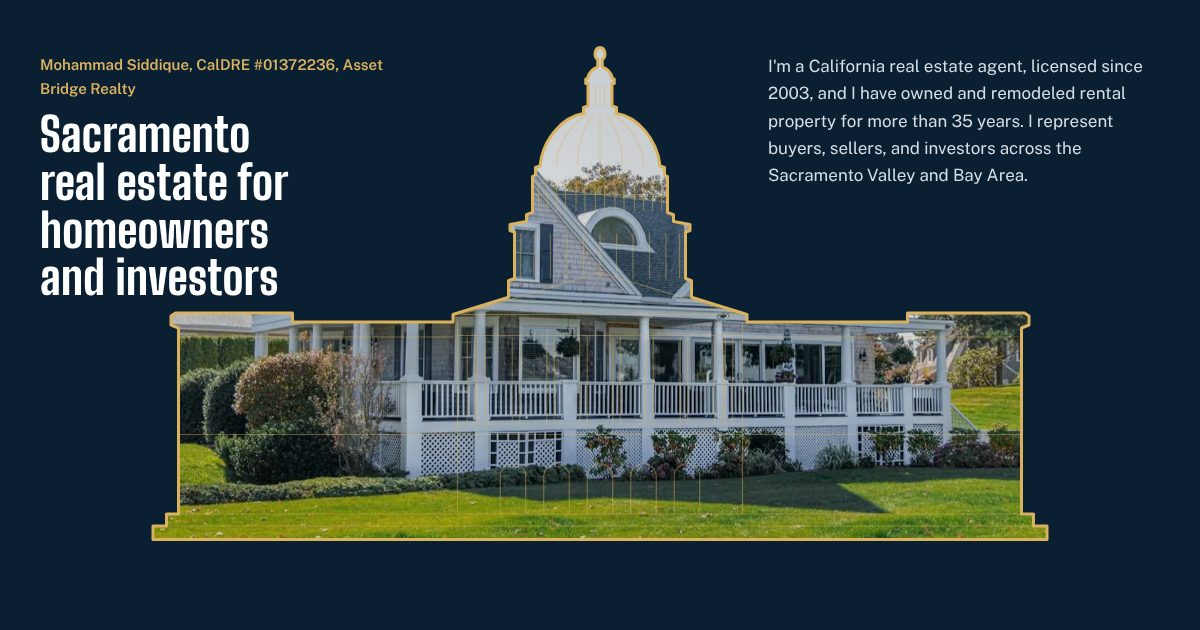
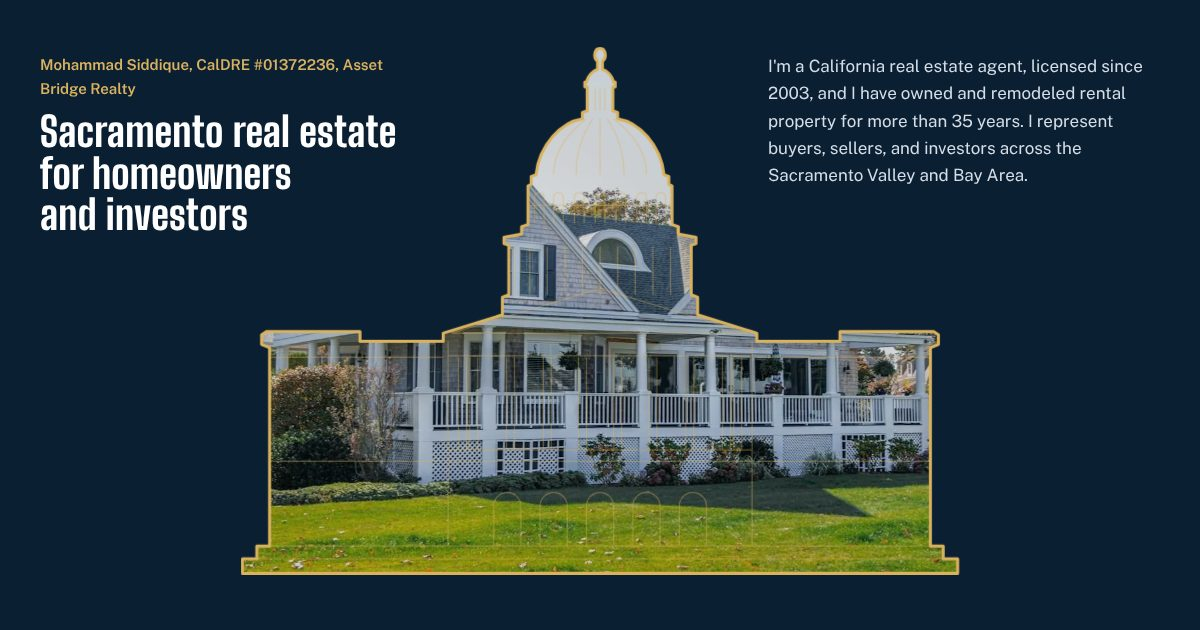
Narrow the Capitol outline by a quarter
Claude-Session: https://claude.ai/code/session_01UgJu3qX1ijNCWZST7kiY7E

Changed region(s): [[0.0308, 0.0905, 0.8942, 0.9349]]

diff --git a/index.html b/index.html
@@ -30,7 +30,7 @@
 <header class="site-header">
   <div class="container">
     <a href="index.html" class="brand" aria-label="Mohammad Siddique, home">
-      <span class="brand-mark"><svg viewBox="0 0 1200 690" aria-hidden="true"><path fill="currentColor" d="M600.0 18.0 C607.0 18.0 609.0 30.0 603.0 34.0 L603.0 44.0 C609.0 46.0 615.0 52.0 617.0 60.0 L619.0 60.0 L619.0 66.0 L616.0 66.0 L616.0 96.0 L622.0 98.0 L622.0 106.0 C648.0 110.0 676.0 138.0 680.0 176.0 L686.0 178.0 L686.0 188.0 L690.0 190.0 L690.0 238.0 L698.0 241.0 L698.0 250.0 L720.0 254.0 L720.0 262.0 L714.0 264.0 L714.0 326.0 L722.0 329.0 L722.0 338.0 L722.0 351.0 L796.0 374.0 L796.0 384.0 L1010.0 384.0 L1010.0 372.0 L1166.0 372.0 L1172.0 376.0 L1172.0 388.0 L1162.0 392.0 L1162.0 640.0 L1178.0 640.0 L1178.0 656.0 L1196.0 656.0 L1196.0 674.0 L4.0 674.0 L4.0 656.0 L22.0 656.0 L22.0 640.0 L38.0 640.0 L38.0 392.0 L28.0 388.0 L28.0 376.0 L34.0 372.0 L190.0 372.0 L190.0 384.0 L404.0 384.0 L404.0 374.0 L478.0 351.0 L478.0 338.0 L478.0 329.0 L486.0 326.0 L486.0 264.0 L480.0 262.0 L480.0 254.0 L502.0 250.0 L502.0 241.0 L510.0 238.0 L510.0 190.0 L514.0 188.0 L514.0 178.0 L520.0 176.0 C524.0 138.0 552.0 110.0 578.0 106.0 L578.0 98.0 L584.0 96.0 L584.0 66.0 L581.0 66.0 L581.0 60.0 L583.0 60.0 C585.0 52.0 591.0 46.0 597.0 44.0 L597.0 34.0 C591.0 30.0 593.0 18.0 600.0 18.0 Z"/></svg></span>
+      <span class="brand-mark"><svg viewBox="0 0 900 690" aria-hidden="true"><path fill="currentColor" d="M450.0 18.0 C457.0 18.0 459.0 30.0 453.0 34.0 L453.0 44.0 C459.0 46.0 465.0 52.0 467.0 60.0 L469.0 60.0 L469.0 66.0 L466.0 66.0 L466.0 96.0 L472.0 98.0 L472.0 106.0 C498.0 110.0 526.0 138.0 530.0 176.0 L536.0 178.0 L536.0 188.0 L540.0 190.0 L540.0 238.0 L548.0 241.0 L548.0 250.0 L570.0 254.0 L570.0 262.0 L564.0 264.0 L564.0 326.0 L572.0 329.0 L572.0 338.0 L572.0 351.0 L646.0 374.0 L646.0 384.0 L750.0 384.0 L750.0 372.0 L867.0 372.0 L873.0 376.0 L873.0 388.0 L863.0 392.0 L863.0 640.0 L879.0 640.0 L879.0 656.0 L897.0 656.0 L897.0 674.0 L3.0 674.0 L3.0 656.0 L21.0 656.0 L21.0 640.0 L37.0 640.0 L37.0 392.0 L27.0 388.0 L27.0 376.0 L33.0 372.0 L150.0 372.0 L150.0 384.0 L254.0 384.0 L254.0 374.0 L328.0 351.0 L328.0 338.0 L328.0 329.0 L336.0 326.0 L336.0 264.0 L330.0 262.0 L330.0 254.0 L352.0 250.0 L352.0 241.0 L360.0 238.0 L360.0 190.0 L364.0 188.0 L364.0 178.0 L370.0 176.0 C374.0 138.0 402.0 110.0 428.0 106.0 L428.0 98.0 L434.0 96.0 L434.0 66.0 L431.0 66.0 L431.0 60.0 L433.0 60.0 C435.0 52.0 441.0 46.0 447.0 44.0 L447.0 34.0 C441.0 30.0 443.0 18.0 450.0 18.0 Z"/></svg></span>
       <span class="brand-text">
         <span class="brand-name">Mohammad Siddique</span>
         <span class="brand-sub">CalDRE #01372236 &middot; Asset Bridge Realty</span>
@@ -61,24 +61,24 @@
         <h1>Sacramento real estate for homeowners and investors</h1>
       </div>
       <div class="capitol-stage">
-        <svg class="capitol" viewBox="0 0 1200 690" role="img" aria-labelledby="cap-title">
+        <svg class="capitol" viewBox="0 0 900 690" role="img" aria-labelledby="cap-title">
           <title id="cap-title">Outline of the California State Capitol, filled with photos of homes, commercial buildings, land, and closings</title>
-          <defs><clipPath id="cap-clip"><path d="M600.0 18.0 C607.0 18.0 609.0 30.0 603.0 34.0 L603.0 44.0 C609.0 46.0 615.0 52.0 617.0 60.0 L619.0 60.0 L619.0 66.0 L616.0 66.0 L616.0 96.0 L622.0 98.0 L622.0 106.0 C648.0 110.0 676.0 138.0 680.0 176.0 L686.0 178.0 L686.0 188.0 L690.0 190.0 L690.0 238.0 L698.0 241.0 L698.0 250.0 L720.0 254.0 L720.0 262.0 L714.0 264.0 L714.0 326.0 L722.0 329.0 L722.0 338.0 L722.0 351.0 L796.0 374.0 L796.0 384.0 L1010.0 384.0 L1010.0 372.0 L1166.0 372.0 L1172.0 376.0 L1172.0 388.0 L1162.0 392.0 L1162.0 640.0 L1178.0 640.0 L1178.0 656.0 L1196.0 656.0 L1196.0 674.0 L4.0 674.0 L4.0 656.0 L22.0 656.0 L22.0 640.0 L38.0 640.0 L38.0 392.0 L28.0 388.0 L28.0 376.0 L34.0 372.0 L190.0 372.0 L190.0 384.0 L404.0 384.0 L404.0 374.0 L478.0 351.0 L478.0 338.0 L478.0 329.0 L486.0 326.0 L486.0 264.0 L480.0 262.0 L480.0 254.0 L502.0 250.0 L502.0 241.0 L510.0 238.0 L510.0 190.0 L514.0 188.0 L514.0 178.0 L520.0 176.0 C524.0 138.0 552.0 110.0 578.0 106.0 L578.0 98.0 L584.0 96.0 L584.0 66.0 L581.0 66.0 L581.0 60.0 L583.0 60.0 C585.0 52.0 591.0 46.0 597.0 44.0 L597.0 34.0 C591.0 30.0 593.0 18.0 600.0 18.0 Z"/></clipPath></defs>
-          <path class="cap-fill" d="M600.0 18.0 C607.0 18.0 609.0 30.0 603.0 34.0 L603.0 44.0 C609.0 46.0 615.0 52.0 617.0 60.0 L619.0 60.0 L619.0 66.0 L616.0 66.0 L616.0 96.0 L622.0 98.0 L622.0 106.0 C648.0 110.0 676.0 138.0 680.0 176.0 L686.0 178.0 L686.0 188.0 L690.0 190.0 L690.0 238.0 L698.0 241.0 L698.0 250.0 L720.0 254.0 L720.0 262.0 L714.0 264.0 L714.0 326.0 L722.0 329.0 L722.0 338.0 L722.0 351.0 L796.0 374.0 L796.0 384.0 L1010.0 384.0 L1010.0 372.0 L1166.0 372.0 L1172.0 376.0 L1172.0 388.0 L1162.0 392.0 L1162.0 640.0 L1178.0 640.0 L1178.0 656.0 L1196.0 656.0 L1196.0 674.0 L4.0 674.0 L4.0 656.0 L22.0 656.0 L22.0 640.0 L38.0 640.0 L38.0 392.0 L28.0 388.0 L28.0 376.0 L34.0 372.0 L190.0 372.0 L190.0 384.0 L404.0 384.0 L404.0 374.0 L478.0 351.0 L478.0 338.0 L478.0 329.0 L486.0 326.0 L486.0 264.0 L480.0 262.0 L480.0 254.0 L502.0 250.0 L502.0 241.0 L510.0 238.0 L510.0 190.0 L514.0 188.0 L514.0 178.0 L520.0 176.0 C524.0 138.0 552.0 110.0 578.0 106.0 L578.0 98.0 L584.0 96.0 L584.0 66.0 L581.0 66.0 L581.0 60.0 L583.0 60.0 C585.0 52.0 591.0 46.0 597.0 44.0 L597.0 34.0 C591.0 30.0 593.0 18.0 600.0 18.0 Z"/>
+          <defs><clipPath id="cap-clip"><path d="M450.0 18.0 C457.0 18.0 459.0 30.0 453.0 34.0 L453.0 44.0 C459.0 46.0 465.0 52.0 467.0 60.0 L469.0 60.0 L469.0 66.0 L466.0 66.0 L466.0 96.0 L472.0 98.0 L472.0 106.0 C498.0 110.0 526.0 138.0 530.0 176.0 L536.0 178.0 L536.0 188.0 L540.0 190.0 L540.0 238.0 L548.0 241.0 L548.0 250.0 L570.0 254.0 L570.0 262.0 L564.0 264.0 L564.0 326.0 L572.0 329.0 L572.0 338.0 L572.0 351.0 L646.0 374.0 L646.0 384.0 L750.0 384.0 L750.0 372.0 L867.0 372.0 L873.0 376.0 L873.0 388.0 L863.0 392.0 L863.0 640.0 L879.0 640.0 L879.0 656.0 L897.0 656.0 L897.0 674.0 L3.0 674.0 L3.0 656.0 L21.0 656.0 L21.0 640.0 L37.0 640.0 L37.0 392.0 L27.0 388.0 L27.0 376.0 L33.0 372.0 L150.0 372.0 L150.0 384.0 L254.0 384.0 L254.0 374.0 L328.0 351.0 L328.0 338.0 L328.0 329.0 L336.0 326.0 L336.0 264.0 L330.0 262.0 L330.0 254.0 L352.0 250.0 L352.0 241.0 L360.0 238.0 L360.0 190.0 L364.0 188.0 L364.0 178.0 L370.0 176.0 C374.0 138.0 402.0 110.0 428.0 106.0 L428.0 98.0 L434.0 96.0 L434.0 66.0 L431.0 66.0 L431.0 60.0 L433.0 60.0 C435.0 52.0 441.0 46.0 447.0 44.0 L447.0 34.0 C441.0 30.0 443.0 18.0 450.0 18.0 Z"/></clipPath></defs>
+          <path class="cap-fill" d="M450.0 18.0 C457.0 18.0 459.0 30.0 453.0 34.0 L453.0 44.0 C459.0 46.0 465.0 52.0 467.0 60.0 L469.0 60.0 L469.0 66.0 L466.0 66.0 L466.0 96.0 L472.0 98.0 L472.0 106.0 C498.0 110.0 526.0 138.0 530.0 176.0 L536.0 178.0 L536.0 188.0 L540.0 190.0 L540.0 238.0 L548.0 241.0 L548.0 250.0 L570.0 254.0 L570.0 262.0 L564.0 264.0 L564.0 326.0 L572.0 329.0 L572.0 338.0 L572.0 351.0 L646.0 374.0 L646.0 384.0 L750.0 384.0 L750.0 372.0 L867.0 372.0 L873.0 376.0 L873.0 388.0 L863.0 392.0 L863.0 640.0 L879.0 640.0 L879.0 656.0 L897.0 656.0 L897.0 674.0 L3.0 674.0 L3.0 656.0 L21.0 656.0 L21.0 640.0 L37.0 640.0 L37.0 392.0 L27.0 388.0 L27.0 376.0 L33.0 372.0 L150.0 372.0 L150.0 384.0 L254.0 384.0 L254.0 374.0 L328.0 351.0 L328.0 338.0 L328.0 329.0 L336.0 326.0 L336.0 264.0 L330.0 262.0 L330.0 254.0 L352.0 250.0 L352.0 241.0 L360.0 238.0 L360.0 190.0 L364.0 188.0 L364.0 178.0 L370.0 176.0 C374.0 138.0 402.0 110.0 428.0 106.0 L428.0 98.0 L434.0 96.0 L434.0 66.0 L431.0 66.0 L431.0 60.0 L433.0 60.0 C435.0 52.0 441.0 46.0 447.0 44.0 L447.0 34.0 C441.0 30.0 443.0 18.0 450.0 18.0 Z"/>
           <g clip-path="url(#cap-clip)"><g class="cap-photos">
-          <image href="assets/photos/home-with-porch.webp" class="is-on" x="-40" y="-30" width="1280" height="750" preserveAspectRatio="xMidYMid slice"/>
-          <image data-href="assets/photos/house-keys-handover.webp" x="-40" y="-30" width="1280" height="750" preserveAspectRatio="xMidYMid slice"/>
-          <image data-href="assets/photos/commercial-towers.webp" x="-40" y="-30" width="1280" height="750" preserveAspectRatio="xMidYMid slice"/>
-          <image data-href="assets/photos/handshake-new-home.webp" x="-40" y="-30" width="1280" height="750" preserveAspectRatio="xMidYMid slice"/>
-          <image data-href="assets/photos/apartment-building.webp" x="-40" y="-30" width="1280" height="750" preserveAspectRatio="xMidYMid slice"/>
-          <image data-href="assets/photos/land-at-sunrise.webp" x="-40" y="-30" width="1280" height="750" preserveAspectRatio="xMidYMid slice"/>
-          <image data-href="assets/photos/signing-purchase-contract.webp" x="-40" y="-30" width="1280" height="750" preserveAspectRatio="xMidYMid slice"/>
-          <image data-href="assets/photos/new-owners-moving-in.webp" x="-40" y="-30" width="1280" height="750" preserveAspectRatio="xMidYMid slice"/>
-          <image data-href="assets/photos/construction-site.webp" x="-40" y="-30" width="1280" height="750" preserveAspectRatio="xMidYMid slice"/>
-          <image data-href="assets/photos/restaurant-space.webp" x="-40" y="-30" width="1280" height="750" preserveAspectRatio="xMidYMid slice"/>
-          <rect class="cap-tint" x="-40" y="-30" width="1280" height="750"/></g></g>
-          <path class="cap-lines" d="M600.0 318.0L786.0 374.0 M600.0 318.0L414.0 374.0 M414.0 374.0L786.0 374.0 M410.0 402.0L790.0 402.0 M617.0 404.0L617.0 520.0 M583.0 404.0L583.0 520.0 M627.0 404.0L627.0 520.0 M573.0 404.0L573.0 520.0 M661.0 404.0L661.0 520.0 M539.0 404.0L539.0 520.0 M671.0 404.0L671.0 520.0 M529.0 404.0L529.0 520.0 M707.0 404.0L707.0 520.0 M493.0 404.0L493.0 520.0 M717.0 404.0L717.0 520.0 M483.0 404.0L483.0 520.0 M753.0 404.0L753.0 520.0 M447.0 404.0L447.0 520.0 M763.0 404.0L763.0 520.0 M437.0 404.0L437.0 520.0 M767.0 404.0L767.0 520.0 M433.0 404.0L433.0 520.0 M777.0 404.0L777.0 520.0 M423.0 404.0L423.0 520.0 M410.0 520.0L790.0 520.0 M410.0 534.0L790.0 534.0 M790.0 384.0L790.0 640.0 M410.0 384.0L410.0 640.0 M583.0 640V590A17 17 0 0 1 617.0 590V640 M641.0 640V590A17 17 0 0 1 675.0 590V640 M525.0 640V590A17 17 0 0 1 559.0 590V640 M699.0 640V590A17 17 0 0 1 733.0 590V640 M467.0 640V590A17 17 0 0 1 501.0 590V640 M796.0 404.0L1162.0 404.0 M404.0 404.0L38.0 404.0 M796.0 534.0L1162.0 534.0 M404.0 534.0L38.0 534.0 M600.0 266.0L600.0 326.0 M622.0 266.0L622.0 326.0 M578.0 266.0L578.0 326.0 M644.0 266.0L644.0 326.0 M556.0 266.0L556.0 326.0 M666.0 266.0L666.0 326.0 M534.0 266.0L534.0 326.0 M688.0 266.0L688.0 326.0 M512.0 266.0L512.0 326.0 M706.0 266.0L706.0 326.0 M494.0 266.0L494.0 326.0 M510.0 214.0L690.0 214.0 M594.0 236V204A6 6 0 0 1 606.0 204V236 M620.0 236V204A6 6 0 0 1 632.0 204V236 M568.0 236V204A6 6 0 0 1 580.0 204V236 M646.0 236V204A6 6 0 0 1 658.0 204V236 M542.0 236V204A6 6 0 0 1 554.0 204V236 M670.0 236V204A6 6 0 0 1 682.0 204V236 M518.0 236V204A6 6 0 0 1 530.0 204V236 M600 106V176 M609.0 106C622.5 126 630.0 150 630.0 176 M591.0 106C577.5 126 570.0 150 570.0 176 M617.0 106C643.5 126 658.0 150 658.0 176 M583.0 106C556.5 126 542.0 150 542.0 176 M606.0 68.0L606.0 96.0 M594.0 68.0L594.0 96.0 M600.0 68.0L600.0 96.0 M22.0 656.0L1178.0 656.0 M38.0 640.0L1162.0 640.0"/>
-          <path class="cap-outline" pathLength="1" d="M600.0 18.0 C607.0 18.0 609.0 30.0 603.0 34.0 L603.0 44.0 C609.0 46.0 615.0 52.0 617.0 60.0 L619.0 60.0 L619.0 66.0 L616.0 66.0 L616.0 96.0 L622.0 98.0 L622.0 106.0 C648.0 110.0 676.0 138.0 680.0 176.0 L686.0 178.0 L686.0 188.0 L690.0 190.0 L690.0 238.0 L698.0 241.0 L698.0 250.0 L720.0 254.0 L720.0 262.0 L714.0 264.0 L714.0 326.0 L722.0 329.0 L722.0 338.0 L722.0 351.0 L796.0 374.0 L796.0 384.0 L1010.0 384.0 L1010.0 372.0 L1166.0 372.0 L1172.0 376.0 L1172.0 388.0 L1162.0 392.0 L1162.0 640.0 L1178.0 640.0 L1178.0 656.0 L1196.0 656.0 L1196.0 674.0 L4.0 674.0 L4.0 656.0 L22.0 656.0 L22.0 640.0 L38.0 640.0 L38.0 392.0 L28.0 388.0 L28.0 376.0 L34.0 372.0 L190.0 372.0 L190.0 384.0 L404.0 384.0 L404.0 374.0 L478.0 351.0 L478.0 338.0 L478.0 329.0 L486.0 326.0 L486.0 264.0 L480.0 262.0 L480.0 254.0 L502.0 250.0 L502.0 241.0 L510.0 238.0 L510.0 190.0 L514.0 188.0 L514.0 178.0 L520.0 176.0 C524.0 138.0 552.0 110.0 578.0 106.0 L578.0 98.0 L584.0 96.0 L584.0 66.0 L581.0 66.0 L581.0 60.0 L583.0 60.0 C585.0 52.0 591.0 46.0 597.0 44.0 L597.0 34.0 C591.0 30.0 593.0 18.0 600.0 18.0 Z"/>
+          <image href="assets/photos/home-with-porch.webp" class="is-on" x="-40" y="-30" width="980" height="750" preserveAspectRatio="xMidYMid slice"/>
+          <image data-href="assets/photos/house-keys-handover.webp" x="-40" y="-30" width="980" height="750" preserveAspectRatio="xMidYMid slice"/>
+          <image data-href="assets/photos/commercial-towers.webp" x="-40" y="-30" width="980" height="750" preserveAspectRatio="xMidYMid slice"/>
+          <image data-href="assets/photos/handshake-new-home.webp" x="-40" y="-30" width="980" height="750" preserveAspectRatio="xMidYMid slice"/>
+          <image data-href="assets/photos/apartment-building.webp" x="-40" y="-30" width="980" height="750" preserveAspectRatio="xMidYMid slice"/>
+          <image data-href="assets/photos/land-at-sunrise.webp" x="-40" y="-30" width="980" height="750" preserveAspectRatio="xMidYMid slice"/>
+          <image data-href="assets/photos/signing-purchase-contract.webp" x="-40" y="-30" width="980" height="750" preserveAspectRatio="xMidYMid slice"/>
+          <image data-href="assets/photos/new-owners-moving-in.webp" x="-40" y="-30" width="980" height="750" preserveAspectRatio="xMidYMid slice"/>
+          <image data-href="assets/photos/construction-site.webp" x="-40" y="-30" width="980" height="750" preserveAspectRatio="xMidYMid slice"/>
+          <image data-href="assets/photos/restaurant-space.webp" x="-40" y="-30" width="980" height="750" preserveAspectRatio="xMidYMid slice"/>
+          <rect class="cap-tint" x="-40" y="-30" width="980" height="750"/></g></g>
+          <path class="cap-lines" d="M450.0 318.0L636.0 374.0 M450.0 318.0L264.0 374.0 M264.0 374.0L636.0 374.0 M260.0 402.0L640.0 402.0 M467.0 404.0L467.0 520.0 M433.0 404.0L433.0 520.0 M477.0 404.0L477.0 520.0 M423.0 404.0L423.0 520.0 M511.0 404.0L511.0 520.0 M389.0 404.0L389.0 520.0 M521.0 404.0L521.0 520.0 M379.0 404.0L379.0 520.0 M557.0 404.0L557.0 520.0 M343.0 404.0L343.0 520.0 M567.0 404.0L567.0 520.0 M333.0 404.0L333.0 520.0 M603.0 404.0L603.0 520.0 M297.0 404.0L297.0 520.0 M613.0 404.0L613.0 520.0 M287.0 404.0L287.0 520.0 M617.0 404.0L617.0 520.0 M283.0 404.0L283.0 520.0 M627.0 404.0L627.0 520.0 M273.0 404.0L273.0 520.0 M260.0 520.0L640.0 520.0 M260.0 534.0L640.0 534.0 M640.0 384.0L640.0 640.0 M260.0 384.0L260.0 640.0 M433.0 640V590A17 17 0 0 1 467.0 590V640 M491.0 640V590A17 17 0 0 1 525.0 590V640 M375.0 640V590A17 17 0 0 1 409.0 590V640 M549.0 640V590A17 17 0 0 1 583.0 590V640 M317.0 640V590A17 17 0 0 1 351.0 590V640 M646.0 404.0L863.0 404.0 M254.0 404.0L37.0 404.0 M646.0 534.0L863.0 534.0 M254.0 534.0L37.0 534.0 M450.0 266.0L450.0 326.0 M472.0 266.0L472.0 326.0 M428.0 266.0L428.0 326.0 M494.0 266.0L494.0 326.0 M406.0 266.0L406.0 326.0 M516.0 266.0L516.0 326.0 M384.0 266.0L384.0 326.0 M538.0 266.0L538.0 326.0 M362.0 266.0L362.0 326.0 M556.0 266.0L556.0 326.0 M344.0 266.0L344.0 326.0 M360.0 214.0L540.0 214.0 M444.0 236V204A6 6 0 0 1 456.0 204V236 M470.0 236V204A6 6 0 0 1 482.0 204V236 M418.0 236V204A6 6 0 0 1 430.0 204V236 M496.0 236V204A6 6 0 0 1 508.0 204V236 M392.0 236V204A6 6 0 0 1 404.0 204V236 M520.0 236V204A6 6 0 0 1 532.0 204V236 M368.0 236V204A6 6 0 0 1 380.0 204V236 M450 106V176 M459.0 106C472.5 126 480.0 150 480.0 176 M441.0 106C427.5 126 420.0 150 420.0 176 M467.0 106C493.5 126 508.0 150 508.0 176 M433.0 106C406.5 126 392.0 150 392.0 176 M456.0 68.0L456.0 96.0 M444.0 68.0L444.0 96.0 M450.0 68.0L450.0 96.0 M21.0 656.0L879.0 656.0 M37.0 640.0L863.0 640.0"/>
+          <path class="cap-outline" pathLength="1" d="M450.0 18.0 C457.0 18.0 459.0 30.0 453.0 34.0 L453.0 44.0 C459.0 46.0 465.0 52.0 467.0 60.0 L469.0 60.0 L469.0 66.0 L466.0 66.0 L466.0 96.0 L472.0 98.0 L472.0 106.0 C498.0 110.0 526.0 138.0 530.0 176.0 L536.0 178.0 L536.0 188.0 L540.0 190.0 L540.0 238.0 L548.0 241.0 L548.0 250.0 L570.0 254.0 L570.0 262.0 L564.0 264.0 L564.0 326.0 L572.0 329.0 L572.0 338.0 L572.0 351.0 L646.0 374.0 L646.0 384.0 L750.0 384.0 L750.0 372.0 L867.0 372.0 L873.0 376.0 L873.0 388.0 L863.0 392.0 L863.0 640.0 L879.0 640.0 L879.0 656.0 L897.0 656.0 L897.0 674.0 L3.0 674.0 L3.0 656.0 L21.0 656.0 L21.0 640.0 L37.0 640.0 L37.0 392.0 L27.0 388.0 L27.0 376.0 L33.0 372.0 L150.0 372.0 L150.0 384.0 L254.0 384.0 L254.0 374.0 L328.0 351.0 L328.0 338.0 L328.0 329.0 L336.0 326.0 L336.0 264.0 L330.0 262.0 L330.0 254.0 L352.0 250.0 L352.0 241.0 L360.0 238.0 L360.0 190.0 L364.0 188.0 L364.0 178.0 L370.0 176.0 C374.0 138.0 402.0 110.0 428.0 106.0 L428.0 98.0 L434.0 96.0 L434.0 66.0 L431.0 66.0 L431.0 60.0 L433.0 60.0 C435.0 52.0 441.0 46.0 447.0 44.0 L447.0 34.0 C441.0 30.0 443.0 18.0 450.0 18.0 Z"/>
         </svg>
         <div class="hero-caption">
           <span>In the Capitol now: <strong id="cap-label" aria-live="polite">Homes</strong></span>

diff --git a/404.html b/404.html
@@ -28,7 +28,7 @@
 <header class="site-header">
   <div class="container">
     <a href="/index.html" class="brand" aria-label="Mohammad Siddique, home">
-      <span class="brand-mark"><svg viewBox="0 0 1200 690" aria-hidden="true"><path fill="currentColor" d="M600.0 18.0 C607.0 18.0 609.0 30.0 603.0 34.0 L603.0 44.0 C609.0 46.0 615.0 52.0 617.0 60.0 L619.0 60.0 L619.0 66.0 L616.0 66.0 L616.0 96.0 L622.0 98.0 L622.0 106.0 C648.0 110.0 676.0 138.0 680.0 176.0 L686.0 178.0 L686.0 188.0 L690.0 190.0 L690.0 238.0 L698.0 241.0 L698.0 250.0 L720.0 254.0 L720.0 262.0 L714.0 264.0 L714.0 326.0 L722.0 329.0 L722.0 338.0 L722.0 351.0 L796.0 374.0 L796.0 384.0 L1010.0 384.0 L1010.0 372.0 L1166.0 372.0 L1172.0 376.0 L1172.0 388.0 L1162.0 392.0 L1162.0 640.0 L1178.0 640.0 L1178.0 656.0 L1196.0 656.0 L1196.0 674.0 L4.0 674.0 L4.0 656.0 L22.0 656.0 L22.0 640.0 L38.0 640.0 L38.0 392.0 L28.0 388.0 L28.0 376.0 L34.0 372.0 L190.0 372.0 L190.0 384.0 L404.0 384.0 L404.0 374.0 L478.0 351.0 L478.0 338.0 L478.0 329.0 L486.0 326.0 L486.0 264.0 L480.0 262.0 L480.0 254.0 L502.0 250.0 L502.0 241.0 L510.0 238.0 L510.0 190.0 L514.0 188.0 L514.0 178.0 L520.0 176.0 C524.0 138.0 552.0 110.0 578.0 106.0 L578.0 98.0 L584.0 96.0 L584.0 66.0 L581.0 66.0 L581.0 60.0 L583.0 60.0 C585.0 52.0 591.0 46.0 597.0 44.0 L597.0 34.0 C591.0 30.0 593.0 18.0 600.0 18.0 Z"/></svg></span>
+      <span class="brand-mark"><svg viewBox="0 0 900 690" aria-hidden="true"><path fill="currentColor" d="M450.0 18.0 C457.0 18.0 459.0 30.0 453.0 34.0 L453.0 44.0 C459.0 46.0 465.0 52.0 467.0 60.0 L469.0 60.0 L469.0 66.0 L466.0 66.0 L466.0 96.0 L472.0 98.0 L472.0 106.0 C498.0 110.0 526.0 138.0 530.0 176.0 L536.0 178.0 L536.0 188.0 L540.0 190.0 L540.0 238.0 L548.0 241.0 L548.0 250.0 L570.0 254.0 L570.0 262.0 L564.0 264.0 L564.0 326.0 L572.0 329.0 L572.0 338.0 L572.0 351.0 L646.0 374.0 L646.0 384.0 L750.0 384.0 L750.0 372.0 L867.0 372.0 L873.0 376.0 L873.0 388.0 L863.0 392.0 L863.0 640.0 L879.0 640.0 L879.0 656.0 L897.0 656.0 L897.0 674.0 L3.0 674.0 L3.0 656.0 L21.0 656.0 L21.0 640.0 L37.0 640.0 L37.0 392.0 L27.0 388.0 L27.0 376.0 L33.0 372.0 L150.0 372.0 L150.0 384.0 L254.0 384.0 L254.0 374.0 L328.0 351.0 L328.0 338.0 L328.0 329.0 L336.0 326.0 L336.0 264.0 L330.0 262.0 L330.0 254.0 L352.0 250.0 L352.0 241.0 L360.0 238.0 L360.0 190.0 L364.0 188.0 L364.0 178.0 L370.0 176.0 C374.0 138.0 402.0 110.0 428.0 106.0 L428.0 98.0 L434.0 96.0 L434.0 66.0 L431.0 66.0 L431.0 60.0 L433.0 60.0 C435.0 52.0 441.0 46.0 447.0 44.0 L447.0 34.0 C441.0 30.0 443.0 18.0 450.0 18.0 Z"/></svg></span>
       <span class="brand-text">
         <span class="brand-name">Mohammad Siddique</span>
         <span class="brand-sub">CalDRE #01372236 &middot; Asset Bridge Realty</span>

diff --git a/about.html b/about.html
@@ -28,7 +28,7 @@
 <header class="site-header">
   <div class="container">
     <a href="index.html" class="brand" aria-label="Mohammad Siddique, home">
-      <span class="brand-mark"><svg viewBox="0 0 1200 690" aria-hidden="true"><path fill="currentColor" d="M600.0 18.0 C607.0 18.0 609.0 30.0 603.0 34.0 L603.0 44.0 C609.0 46.0 615.0 52.0 617.0 60.0 L619.0 60.0 L619.0 66.0 L616.0 66.0 L616.0 96.0 L622.0 98.0 L622.0 106.0 C648.0 110.0 676.0 138.0 680.0 176.0 L686.0 178.0 L686.0 188.0 L690.0 190.0 L690.0 238.0 L698.0 241.0 L698.0 250.0 L720.0 254.0 L720.0 262.0 L714.0 264.0 L714.0 326.0 L722.0 329.0 L722.0 338.0 L722.0 351.0 L796.0 374.0 L796.0 384.0 L1010.0 384.0 L1010.0 372.0 L1166.0 372.0 L1172.0 376.0 L1172.0 388.0 L1162.0 392.0 L1162.0 640.0 L1178.0 640.0 L1178.0 656.0 L1196.0 656.0 L1196.0 674.0 L4.0 674.0 L4.0 656.0 L22.0 656.0 L22.0 640.0 L38.0 640.0 L38.0 392.0 L28.0 388.0 L28.0 376.0 L34.0 372.0 L190.0 372.0 L190.0 384.0 L404.0 384.0 L404.0 374.0 L478.0 351.0 L478.0 338.0 L478.0 329.0 L486.0 326.0 L486.0 264.0 L480.0 262.0 L480.0 254.0 L502.0 250.0 L502.0 241.0 L510.0 238.0 L510.0 190.0 L514.0 188.0 L514.0 178.0 L520.0 176.0 C524.0 138.0 552.0 110.0 578.0 106.0 L578.0 98.0 L584.0 96.0 L584.0 66.0 L581.0 66.0 L581.0 60.0 L583.0 60.0 C585.0 52.0 591.0 46.0 597.0 44.0 L597.0 34.0 C591.0 30.0 593.0 18.0 600.0 18.0 Z"/></svg></span>
+      <span class="brand-mark"><svg viewBox="0 0 900 690" aria-hidden="true"><path fill="currentColor" d="M450.0 18.0 C457.0 18.0 459.0 30.0 453.0 34.0 L453.0 44.0 C459.0 46.0 465.0 52.0 467.0 60.0 L469.0 60.0 L469.0 66.0 L466.0 66.0 L466.0 96.0 L472.0 98.0 L472.0 106.0 C498.0 110.0 526.0 138.0 530.0 176.0 L536.0 178.0 L536.0 188.0 L540.0 190.0 L540.0 238.0 L548.0 241.0 L548.0 250.0 L570.0 254.0 L570.0 262.0 L564.0 264.0 L564.0 326.0 L572.0 329.0 L572.0 338.0 L572.0 351.0 L646.0 374.0 L646.0 384.0 L750.0 384.0 L750.0 372.0 L867.0 372.0 L873.0 376.0 L873.0 388.0 L863.0 392.0 L863.0 640.0 L879.0 640.0 L879.0 656.0 L897.0 656.0 L897.0 674.0 L3.0 674.0 L3.0 656.0 L21.0 656.0 L21.0 640.0 L37.0 640.0 L37.0 392.0 L27.0 388.0 L27.0 376.0 L33.0 372.0 L150.0 372.0 L150.0 384.0 L254.0 384.0 L254.0 374.0 L328.0 351.0 L328.0 338.0 L328.0 329.0 L336.0 326.0 L336.0 264.0 L330.0 262.0 L330.0 254.0 L352.0 250.0 L352.0 241.0 L360.0 238.0 L360.0 190.0 L364.0 188.0 L364.0 178.0 L370.0 176.0 C374.0 138.0 402.0 110.0 428.0 106.0 L428.0 98.0 L434.0 96.0 L434.0 66.0 L431.0 66.0 L431.0 60.0 L433.0 60.0 C435.0 52.0 441.0 46.0 447.0 44.0 L447.0 34.0 C441.0 30.0 443.0 18.0 450.0 18.0 Z"/></svg></span>
       <span class="brand-text">
         <span class="brand-name">Mohammad Siddique</span>
         <span class="brand-sub">CalDRE #01372236 &middot; Asset Bridge Realty</span>

diff --git a/business-leases.html b/business-leases.html
@@ -28,7 +28,7 @@
 <header class="site-header">
   <div class="container">
     <a href="index.html" class="brand" aria-label="Mohammad Siddique, home">
-      <span class="brand-mark"><svg viewBox="0 0 1200 690" aria-hidden="true"><path fill="currentColor" d="M600.0 18.0 C607.0 18.0 609.0 30.0 603.0 34.0 L603.0 44.0 C609.0 46.0 615.0 52.0 617.0 60.0 L619.0 60.0 L619.0 66.0 L616.0 66.0 L616.0 96.0 L622.0 98.0 L622.0 106.0 C648.0 110.0 676.0 138.0 680.0 176.0 L686.0 178.0 L686.0 188.0 L690.0 190.0 L690.0 238.0 L698.0 241.0 L698.0 250.0 L720.0 254.0 L720.0 262.0 L714.0 264.0 L714.0 326.0 L722.0 329.0 L722.0 338.0 L722.0 351.0 L796.0 374.0 L796.0 384.0 L1010.0 384.0 L1010.0 372.0 L1166.0 372.0 L1172.0 376.0 L1172.0 388.0 L1162.0 392.0 L1162.0 640.0 L1178.0 640.0 L1178.0 656.0 L1196.0 656.0 L1196.0 674.0 L4.0 674.0 L4.0 656.0 L22.0 656.0 L22.0 640.0 L38.0 640.0 L38.0 392.0 L28.0 388.0 L28.0 376.0 L34.0 372.0 L190.0 372.0 L190.0 384.0 L404.0 384.0 L404.0 374.0 L478.0 351.0 L478.0 338.0 L478.0 329.0 L486.0 326.0 L486.0 264.0 L480.0 262.0 L480.0 254.0 L502.0 250.0 L502.0 241.0 L510.0 238.0 L510.0 190.0 L514.0 188.0 L514.0 178.0 L520.0 176.0 C524.0 138.0 552.0 110.0 578.0 106.0 L578.0 98.0 L584.0 96.0 L584.0 66.0 L581.0 66.0 L581.0 60.0 L583.0 60.0 C585.0 52.0 591.0 46.0 597.0 44.0 L597.0 34.0 C591.0 30.0 593.0 18.0 600.0 18.0 Z"/></svg></span>
+      <span class="brand-mark"><svg viewBox="0 0 900 690" aria-hidden="true"><path fill="currentColor" d="M450.0 18.0 C457.0 18.0 459.0 30.0 453.0 34.0 L453.0 44.0 C459.0 46.0 465.0 52.0 467.0 60.0 L469.0 60.0 L469.0 66.0 L466.0 66.0 L466.0 96.0 L472.0 98.0 L472.0 106.0 C498.0 110.0 526.0 138.0 530.0 176.0 L536.0 178.0 L536.0 188.0 L540.0 190.0 L540.0 238.0 L548.0 241.0 L548.0 250.0 L570.0 254.0 L570.0 262.0 L564.0 264.0 L564.0 326.0 L572.0 329.0 L572.0 338.0 L572.0 351.0 L646.0 374.0 L646.0 384.0 L750.0 384.0 L750.0 372.0 L867.0 372.0 L873.0 376.0 L873.0 388.0 L863.0 392.0 L863.0 640.0 L879.0 640.0 L879.0 656.0 L897.0 656.0 L897.0 674.0 L3.0 674.0 L3.0 656.0 L21.0 656.0 L21.0 640.0 L37.0 640.0 L37.0 392.0 L27.0 388.0 L27.0 376.0 L33.0 372.0 L150.0 372.0 L150.0 384.0 L254.0 384.0 L254.0 374.0 L328.0 351.0 L328.0 338.0 L328.0 329.0 L336.0 326.0 L336.0 264.0 L330.0 262.0 L330.0 254.0 L352.0 250.0 L352.0 241.0 L360.0 238.0 L360.0 190.0 L364.0 188.0 L364.0 178.0 L370.0 176.0 C374.0 138.0 402.0 110.0 428.0 106.0 L428.0 98.0 L434.0 96.0 L434.0 66.0 L431.0 66.0 L431.0 60.0 L433.0 60.0 C435.0 52.0 441.0 46.0 447.0 44.0 L447.0 34.0 C441.0 30.0 443.0 18.0 450.0 18.0 Z"/></svg></span>
       <span class="brand-text">
         <span class="brand-name">Mohammad Siddique</span>
         <span class="brand-sub">CalDRE #01372236 &middot; Asset Bridge Realty</span>

diff --git a/commercial-construction.html b/commercial-construction.html
@@ -28,7 +28,7 @@
 <header class="site-header">
   <div class="container">
     <a href="index.html" class="brand" aria-label="Mohammad Siddique, home">
-      <span class="brand-mark"><svg viewBox="0 0 1200 690" aria-hidden="true"><path fill="currentColor" d="M600.0 18.0 C607.0 18.0 609.0 30.0 603.0 34.0 L603.0 44.0 C609.0 46.0 615.0 52.0 617.0 60.0 L619.0 60.0 L619.0 66.0 L616.0 66.0 L616.0 96.0 L622.0 98.0 L622.0 106.0 C648.0 110.0 676.0 138.0 680.0 176.0 L686.0 178.0 L686.0 188.0 L690.0 190.0 L690.0 238.0 L698.0 241.0 L698.0 250.0 L720.0 254.0 L720.0 262.0 L714.0 264.0 L714.0 326.0 L722.0 329.0 L722.0 338.0 L722.0 351.0 L796.0 374.0 L796.0 384.0 L1010.0 384.0 L1010.0 372.0 L1166.0 372.0 L1172.0 376.0 L1172.0 388.0 L1162.0 392.0 L1162.0 640.0 L1178.0 640.0 L1178.0 656.0 L1196.0 656.0 L1196.0 674.0 L4.0 674.0 L4.0 656.0 L22.0 656.0 L22.0 640.0 L38.0 640.0 L38.0 392.0 L28.0 388.0 L28.0 376.0 L34.0 372.0 L190.0 372.0 L190.0 384.0 L404.0 384.0 L404.0 374.0 L478.0 351.0 L478.0 338.0 L478.0 329.0 L486.0 326.0 L486.0 264.0 L480.0 262.0 L480.0 254.0 L502.0 250.0 L502.0 241.0 L510.0 238.0 L510.0 190.0 L514.0 188.0 L514.0 178.0 L520.0 176.0 C524.0 138.0 552.0 110.0 578.0 106.0 L578.0 98.0 L584.0 96.0 L584.0 66.0 L581.0 66.0 L581.0 60.0 L583.0 60.0 C585.0 52.0 591.0 46.0 597.0 44.0 L597.0 34.0 C591.0 30.0 593.0 18.0 600.0 18.0 Z"/></svg></span>
+      <span class="brand-mark"><svg viewBox="0 0 900 690" aria-hidden="true"><path fill="currentColor" d="M450.0 18.0 C457.0 18.0 459.0 30.0 453.0 34.0 L453.0 44.0 C459.0 46.0 465.0 52.0 467.0 60.0 L469.0 60.0 L469.0 66.0 L466.0 66.0 L466.0 96.0 L472.0 98.0 L472.0 106.0 C498.0 110.0 526.0 138.0 530.0 176.0 L536.0 178.0 L536.0 188.0 L540.0 190.0 L540.0 238.0 L548.0 241.0 L548.0 250.0 L570.0 254.0 L570.0 262.0 L564.0 264.0 L564.0 326.0 L572.0 329.0 L572.0 338.0 L572.0 351.0 L646.0 374.0 L646.0 384.0 L750.0 384.0 L750.0 372.0 L867.0 372.0 L873.0 376.0 L873.0 388.0 L863.0 392.0 L863.0 640.0 L879.0 640.0 L879.0 656.0 L897.0 656.0 L897.0 674.0 L3.0 674.0 L3.0 656.0 L21.0 656.0 L21.0 640.0 L37.0 640.0 L37.0 392.0 L27.0 388.0 L27.0 376.0 L33.0 372.0 L150.0 372.0 L150.0 384.0 L254.0 384.0 L254.0 374.0 L328.0 351.0 L328.0 338.0 L328.0 329.0 L336.0 326.0 L336.0 264.0 L330.0 262.0 L330.0 254.0 L352.0 250.0 L352.0 241.0 L360.0 238.0 L360.0 190.0 L364.0 188.0 L364.0 178.0 L370.0 176.0 C374.0 138.0 402.0 110.0 428.0 106.0 L428.0 98.0 L434.0 96.0 L434.0 66.0 L431.0 66.0 L431.0 60.0 L433.0 60.0 C435.0 52.0 441.0 46.0 447.0 44.0 L447.0 34.0 C441.0 30.0 443.0 18.0 450.0 18.0 Z"/></svg></span>
       <span class="brand-text">
         <span class="brand-name">Mohammad Siddique</span>
         <span class="brand-sub">CalDRE #01372236 &middot; Asset Bridge Realty</span>

diff --git a/commercial.html b/commercial.html
@@ -28,7 +28,7 @@
 <header class="site-header">
   <div class="container">
     <a href="index.html" class="brand" aria-label="Mohammad Siddique, home">
-      <span class="brand-mark"><svg viewBox="0 0 1200 690" aria-hidden="true"><path fill="currentColor" d="M600.0 18.0 C607.0 18.0 609.0 30.0 603.0 34.0 L603.0 44.0 C609.0 46.0 615.0 52.0 617.0 60.0 L619.0 60.0 L619.0 66.0 L616.0 66.0 L616.0 96.0 L622.0 98.0 L622.0 106.0 C648.0 110.0 676.0 138.0 680.0 176.0 L686.0 178.0 L686.0 188.0 L690.0 190.0 L690.0 238.0 L698.0 241.0 L698.0 250.0 L720.0 254.0 L720.0 262.0 L714.0 264.0 L714.0 326.0 L722.0 329.0 L722.0 338.0 L722.0 351.0 L796.0 374.0 L796.0 384.0 L1010.0 384.0 L1010.0 372.0 L1166.0 372.0 L1172.0 376.0 L1172.0 388.0 L1162.0 392.0 L1162.0 640.0 L1178.0 640.0 L1178.0 656.0 L1196.0 656.0 L1196.0 674.0 L4.0 674.0 L4.0 656.0 L22.0 656.0 L22.0 640.0 L38.0 640.0 L38.0 392.0 L28.0 388.0 L28.0 376.0 L34.0 372.0 L190.0 372.0 L190.0 384.0 L404.0 384.0 L404.0 374.0 L478.0 351.0 L478.0 338.0 L478.0 329.0 L486.0 326.0 L486.0 264.0 L480.0 262.0 L480.0 254.0 L502.0 250.0 L502.0 241.0 L510.0 238.0 L510.0 190.0 L514.0 188.0 L514.0 178.0 L520.0 176.0 C524.0 138.0 552.0 110.0 578.0 106.0 L578.0 98.0 L584.0 96.0 L584.0 66.0 L581.0 66.0 L581.0 60.0 L583.0 60.0 C585.0 52.0 591.0 46.0 597.0 44.0 L597.0 34.0 C591.0 30.0 593.0 18.0 600.0 18.0 Z"/></svg></span>
+      <span class="brand-mark"><svg viewBox="0 0 900 690" aria-hidden="true"><path fill="currentColor" d="M450.0 18.0 C457.0 18.0 459.0 30.0 453.0 34.0 L453.0 44.0 C459.0 46.0 465.0 52.0 467.0 60.0 L469.0 60.0 L469.0 66.0 L466.0 66.0 L466.0 96.0 L472.0 98.0 L472.0 106.0 C498.0 110.0 526.0 138.0 530.0 176.0 L536.0 178.0 L536.0 188.0 L540.0 190.0 L540.0 238.0 L548.0 241.0 L548.0 250.0 L570.0 254.0 L570.0 262.0 L564.0 264.0 L564.0 326.0 L572.0 329.0 L572.0 338.0 L572.0 351.0 L646.0 374.0 L646.0 384.0 L750.0 384.0 L750.0 372.0 L867.0 372.0 L873.0 376.0 L873.0 388.0 L863.0 392.0 L863.0 640.0 L879.0 640.0 L879.0 656.0 L897.0 656.0 L897.0 674.0 L3.0 674.0 L3.0 656.0 L21.0 656.0 L21.0 640.0 L37.0 640.0 L37.0 392.0 L27.0 388.0 L27.0 376.0 L33.0 372.0 L150.0 372.0 L150.0 384.0 L254.0 384.0 L254.0 374.0 L328.0 351.0 L328.0 338.0 L328.0 329.0 L336.0 326.0 L336.0 264.0 L330.0 262.0 L330.0 254.0 L352.0 250.0 L352.0 241.0 L360.0 238.0 L360.0 190.0 L364.0 188.0 L364.0 178.0 L370.0 176.0 C374.0 138.0 402.0 110.0 428.0 106.0 L428.0 98.0 L434.0 96.0 L434.0 66.0 L431.0 66.0 L431.0 60.0 L433.0 60.0 C435.0 52.0 441.0 46.0 447.0 44.0 L447.0 34.0 C441.0 30.0 443.0 18.0 450.0 18.0 Z"/></svg></span>
       <span class="brand-text">
         <span class="brand-name">Mohammad Siddique</span>
         <span class="brand-sub">CalDRE #01372236 &middot; Asset Bridge Realty</span>

diff --git a/contact.html b/contact.html
@@ -28,7 +28,7 @@
 <header class="site-header">
   <div class="container">
     <a href="index.html" class="brand" aria-label="Mohammad Siddique, home">
-      <span class="brand-mark"><svg viewBox="0 0 1200 690" aria-hidden="true"><path fill="currentColor" d="M600.0 18.0 C607.0 18.0 609.0 30.0 603.0 34.0 L603.0 44.0 C609.0 46.0 615.0 52.0 617.0 60.0 L619.0 60.0 L619.0 66.0 L616.0 66.0 L616.0 96.0 L622.0 98.0 L622.0 106.0 C648.0 110.0 676.0 138.0 680.0 176.0 L686.0 178.0 L686.0 188.0 L690.0 190.0 L690.0 238.0 L698.0 241.0 L698.0 250.0 L720.0 254.0 L720.0 262.0 L714.0 264.0 L714.0 326.0 L722.0 329.0 L722.0 338.0 L722.0 351.0 L796.0 374.0 L796.0 384.0 L1010.0 384.0 L1010.0 372.0 L1166.0 372.0 L1172.0 376.0 L1172.0 388.0 L1162.0 392.0 L1162.0 640.0 L1178.0 640.0 L1178.0 656.0 L1196.0 656.0 L1196.0 674.0 L4.0 674.0 L4.0 656.0 L22.0 656.0 L22.0 640.0 L38.0 640.0 L38.0 392.0 L28.0 388.0 L28.0 376.0 L34.0 372.0 L190.0 372.0 L190.0 384.0 L404.0 384.0 L404.0 374.0 L478.0 351.0 L478.0 338.0 L478.0 329.0 L486.0 326.0 L486.0 264.0 L480.0 262.0 L480.0 254.0 L502.0 250.0 L502.0 241.0 L510.0 238.0 L510.0 190.0 L514.0 188.0 L514.0 178.0 L520.0 176.0 C524.0 138.0 552.0 110.0 578.0 106.0 L578.0 98.0 L584.0 96.0 L584.0 66.0 L581.0 66.0 L581.0 60.0 L583.0 60.0 C585.0 52.0 591.0 46.0 597.0 44.0 L597.0 34.0 C591.0 30.0 593.0 18.0 600.0 18.0 Z"/></svg></span>
+      <span class="brand-mark"><svg viewBox="0 0 900 690" aria-hidden="true"><path fill="currentColor" d="M450.0 18.0 C457.0 18.0 459.0 30.0 453.0 34.0 L453.0 44.0 C459.0 46.0 465.0 52.0 467.0 60.0 L469.0 60.0 L469.0 66.0 L466.0 66.0 L466.0 96.0 L472.0 98.0 L472.0 106.0 C498.0 110.0 526.0 138.0 530.0 176.0 L536.0 178.0 L536.0 188.0 L540.0 190.0 L540.0 238.0 L548.0 241.0 L548.0 250.0 L570.0 254.0 L570.0 262.0 L564.0 264.0 L564.0 326.0 L572.0 329.0 L572.0 338.0 L572.0 351.0 L646.0 374.0 L646.0 384.0 L750.0 384.0 L750.0 372.0 L867.0 372.0 L873.0 376.0 L873.0 388.0 L863.0 392.0 L863.0 640.0 L879.0 640.0 L879.0 656.0 L897.0 656.0 L897.0 674.0 L3.0 674.0 L3.0 656.0 L21.0 656.0 L21.0 640.0 L37.0 640.0 L37.0 392.0 L27.0 388.0 L27.0 376.0 L33.0 372.0 L150.0 372.0 L150.0 384.0 L254.0 384.0 L254.0 374.0 L328.0 351.0 L328.0 338.0 L328.0 329.0 L336.0 326.0 L336.0 264.0 L330.0 262.0 L330.0 254.0 L352.0 250.0 L352.0 241.0 L360.0 238.0 L360.0 190.0 L364.0 188.0 L364.0 178.0 L370.0 176.0 C374.0 138.0 402.0 110.0 428.0 106.0 L428.0 98.0 L434.0 96.0 L434.0 66.0 L431.0 66.0 L431.0 60.0 L433.0 60.0 C435.0 52.0 441.0 46.0 447.0 44.0 L447.0 34.0 C441.0 30.0 443.0 18.0 450.0 18.0 Z"/></svg></span>
       <span class="brand-text">
         <span class="brand-name">Mohammad Siddique</span>
         <span class="brand-sub">CalDRE #01372236 &middot; Asset Bridge Realty</span>

diff --git a/join.html b/join.html
@@ -28,7 +28,7 @@
 <header class="site-header">
   <div class="container">
     <a href="index.html" class="brand" aria-label="Mohammad Siddique, home">
-      <span class="brand-mark"><svg viewBox="0 0 1200 690" aria-hidden="true"><path fill="currentColor" d="M600.0 18.0 C607.0 18.0 609.0 30.0 603.0 34.0 L603.0 44.0 C609.0 46.0 615.0 52.0 617.0 60.0 L619.0 60.0 L619.0 66.0 L616.0 66.0 L616.0 96.0 L622.0 98.0 L622.0 106.0 C648.0 110.0 676.0 138.0 680.0 176.0 L686.0 178.0 L686.0 188.0 L690.0 190.0 L690.0 238.0 L698.0 241.0 L698.0 250.0 L720.0 254.0 L720.0 262.0 L714.0 264.0 L714.0 326.0 L722.0 329.0 L722.0 338.0 L722.0 351.0 L796.0 374.0 L796.0 384.0 L1010.0 384.0 L1010.0 372.0 L1166.0 372.0 L1172.0 376.0 L1172.0 388.0 L1162.0 392.0 L1162.0 640.0 L1178.0 640.0 L1178.0 656.0 L1196.0 656.0 L1196.0 674.0 L4.0 674.0 L4.0 656.0 L22.0 656.0 L22.0 640.0 L38.0 640.0 L38.0 392.0 L28.0 388.0 L28.0 376.0 L34.0 372.0 L190.0 372.0 L190.0 384.0 L404.0 384.0 L404.0 374.0 L478.0 351.0 L478.0 338.0 L478.0 329.0 L486.0 326.0 L486.0 264.0 L480.0 262.0 L480.0 254.0 L502.0 250.0 L502.0 241.0 L510.0 238.0 L510.0 190.0 L514.0 188.0 L514.0 178.0 L520.0 176.0 C524.0 138.0 552.0 110.0 578.0 106.0 L578.0 98.0 L584.0 96.0 L584.0 66.0 L581.0 66.0 L581.0 60.0 L583.0 60.0 C585.0 52.0 591.0 46.0 597.0 44.0 L597.0 34.0 C591.0 30.0 593.0 18.0 600.0 18.0 Z"/></svg></span>
+      <span class="brand-mark"><svg viewBox="0 0 900 690" aria-hidden="true"><path fill="currentColor" d="M450.0 18.0 C457.0 18.0 459.0 30.0 453.0 34.0 L453.0 44.0 C459.0 46.0 465.0 52.0 467.0 60.0 L469.0 60.0 L469.0 66.0 L466.0 66.0 L466.0 96.0 L472.0 98.0 L472.0 106.0 C498.0 110.0 526.0 138.0 530.0 176.0 L536.0 178.0 L536.0 188.0 L540.0 190.0 L540.0 238.0 L548.0 241.0 L548.0 250.0 L570.0 254.0 L570.0 262.0 L564.0 264.0 L564.0 326.0 L572.0 329.0 L572.0 338.0 L572.0 351.0 L646.0 374.0 L646.0 384.0 L750.0 384.0 L750.0 372.0 L867.0 372.0 L873.0 376.0 L873.0 388.0 L863.0 392.0 L863.0 640.0 L879.0 640.0 L879.0 656.0 L897.0 656.0 L897.0 674.0 L3.0 674.0 L3.0 656.0 L21.0 656.0 L21.0 640.0 L37.0 640.0 L37.0 392.0 L27.0 388.0 L27.0 376.0 L33.0 372.0 L150.0 372.0 L150.0 384.0 L254.0 384.0 L254.0 374.0 L328.0 351.0 L328.0 338.0 L328.0 329.0 L336.0 326.0 L336.0 264.0 L330.0 262.0 L330.0 254.0 L352.0 250.0 L352.0 241.0 L360.0 238.0 L360.0 190.0 L364.0 188.0 L364.0 178.0 L370.0 176.0 C374.0 138.0 402.0 110.0 428.0 106.0 L428.0 98.0 L434.0 96.0 L434.0 66.0 L431.0 66.0 L431.0 60.0 L433.0 60.0 C435.0 52.0 441.0 46.0 447.0 44.0 L447.0 34.0 C441.0 30.0 443.0 18.0 450.0 18.0 Z"/></svg></span>
       <span class="brand-text">
         <span class="brand-name">Mohammad Siddique</span>
         <span class="brand-sub">CalDRE #01372236 &middot; Asset Bridge Realty</span>

diff --git a/platform.html b/platform.html
@@ -28,7 +28,7 @@
 <header class="site-header">
   <div class="container">
     <a href="index.html" class="brand" aria-label="Mohammad Siddique, home">
-      <span class="brand-mark"><svg viewBox="0 0 1200 690" aria-hidden="true"><path fill="currentColor" d="M600.0 18.0 C607.0 18.0 609.0 30.0 603.0 34.0 L603.0 44.0 C609.0 46.0 615.0 52.0 617.0 60.0 L619.0 60.0 L619.0 66.0 L616.0 66.0 L616.0 96.0 L622.0 98.0 L622.0 106.0 C648.0 110.0 676.0 138.0 680.0 176.0 L686.0 178.0 L686.0 188.0 L690.0 190.0 L690.0 238.0 L698.0 241.0 L698.0 250.0 L720.0 254.0 L720.0 262.0 L714.0 264.0 L714.0 326.0 L722.0 329.0 L722.0 338.0 L722.0 351.0 L796.0 374.0 L796.0 384.0 L1010.0 384.0 L1010.0 372.0 L1166.0 372.0 L1172.0 376.0 L1172.0 388.0 L1162.0 392.0 L1162.0 640.0 L1178.0 640.0 L1178.0 656.0 L1196.0 656.0 L1196.0 674.0 L4.0 674.0 L4.0 656.0 L22.0 656.0 L22.0 640.0 L38.0 640.0 L38.0 392.0 L28.0 388.0 L28.0 376.0 L34.0 372.0 L190.0 372.0 L190.0 384.0 L404.0 384.0 L404.0 374.0 L478.0 351.0 L478.0 338.0 L478.0 329.0 L486.0 326.0 L486.0 264.0 L480.0 262.0 L480.0 254.0 L502.0 250.0 L502.0 241.0 L510.0 238.0 L510.0 190.0 L514.0 188.0 L514.0 178.0 L520.0 176.0 C524.0 138.0 552.0 110.0 578.0 106.0 L578.0 98.0 L584.0 96.0 L584.0 66.0 L581.0 66.0 L581.0 60.0 L583.0 60.0 C585.0 52.0 591.0 46.0 597.0 44.0 L597.0 34.0 C591.0 30.0 593.0 18.0 600.0 18.0 Z"/></svg></span>
+      <span class="brand-mark"><svg viewBox="0 0 900 690" aria-hidden="true"><path fill="currentColor" d="M450.0 18.0 C457.0 18.0 459.0 30.0 453.0 34.0 L453.0 44.0 C459.0 46.0 465.0 52.0 467.0 60.0 L469.0 60.0 L469.0 66.0 L466.0 66.0 L466.0 96.0 L472.0 98.0 L472.0 106.0 C498.0 110.0 526.0 138.0 530.0 176.0 L536.0 178.0 L536.0 188.0 L540.0 190.0 L540.0 238.0 L548.0 241.0 L548.0 250.0 L570.0 254.0 L570.0 262.0 L564.0 264.0 L564.0 326.0 L572.0 329.0 L572.0 338.0 L572.0 351.0 L646.0 374.0 L646.0 384.0 L750.0 384.0 L750.0 372.0 L867.0 372.0 L873.0 376.0 L873.0 388.0 L863.0 392.0 L863.0 640.0 L879.0 640.0 L879.0 656.0 L897.0 656.0 L897.0 674.0 L3.0 674.0 L3.0 656.0 L21.0 656.0 L21.0 640.0 L37.0 640.0 L37.0 392.0 L27.0 388.0 L27.0 376.0 L33.0 372.0 L150.0 372.0 L150.0 384.0 L254.0 384.0 L254.0 374.0 L328.0 351.0 L328.0 338.0 L328.0 329.0 L336.0 326.0 L336.0 264.0 L330.0 262.0 L330.0 254.0 L352.0 250.0 L352.0 241.0 L360.0 238.0 L360.0 190.0 L364.0 188.0 L364.0 178.0 L370.0 176.0 C374.0 138.0 402.0 110.0 428.0 106.0 L428.0 98.0 L434.0 96.0 L434.0 66.0 L431.0 66.0 L431.0 60.0 L433.0 60.0 C435.0 52.0 441.0 46.0 447.0 44.0 L447.0 34.0 C441.0 30.0 443.0 18.0 450.0 18.0 Z"/></svg></span>
       <span class="brand-text">
         <span class="brand-name">Mohammad Siddique</span>
         <span class="brand-sub">CalDRE #01372236 &middot; Asset Bridge Realty</span>

diff --git a/residential.html b/residential.html
@@ -28,7 +28,7 @@
 <header class="site-header">
   <div class="container">
     <a href="index.html" class="brand" aria-label="Mohammad Siddique, home">
-      <span class="brand-mark"><svg viewBox="0 0 1200 690" aria-hidden="true"><path fill="currentColor" d="M600.0 18.0 C607.0 18.0 609.0 30.0 603.0 34.0 L603.0 44.0 C609.0 46.0 615.0 52.0 617.0 60.0 L619.0 60.0 L619.0 66.0 L616.0 66.0 L616.0 96.0 L622.0 98.0 L622.0 106.0 C648.0 110.0 676.0 138.0 680.0 176.0 L686.0 178.0 L686.0 188.0 L690.0 190.0 L690.0 238.0 L698.0 241.0 L698.0 250.0 L720.0 254.0 L720.0 262.0 L714.0 264.0 L714.0 326.0 L722.0 329.0 L722.0 338.0 L722.0 351.0 L796.0 374.0 L796.0 384.0 L1010.0 384.0 L1010.0 372.0 L1166.0 372.0 L1172.0 376.0 L1172.0 388.0 L1162.0 392.0 L1162.0 640.0 L1178.0 640.0 L1178.0 656.0 L1196.0 656.0 L1196.0 674.0 L4.0 674.0 L4.0 656.0 L22.0 656.0 L22.0 640.0 L38.0 640.0 L38.0 392.0 L28.0 388.0 L28.0 376.0 L34.0 372.0 L190.0 372.0 L190.0 384.0 L404.0 384.0 L404.0 374.0 L478.0 351.0 L478.0 338.0 L478.0 329.0 L486.0 326.0 L486.0 264.0 L480.0 262.0 L480.0 254.0 L502.0 250.0 L502.0 241.0 L510.0 238.0 L510.0 190.0 L514.0 188.0 L514.0 178.0 L520.0 176.0 C524.0 138.0 552.0 110.0 578.0 106.0 L578.0 98.0 L584.0 96.0 L584.0 66.0 L581.0 66.0 L581.0 60.0 L583.0 60.0 C585.0 52.0 591.0 46.0 597.0 44.0 L597.0 34.0 C591.0 30.0 593.0 18.0 600.0 18.0 Z"/></svg></span>
+      <span class="brand-mark"><svg viewBox="0 0 900 690" aria-hidden="true"><path fill="currentColor" d="M450.0 18.0 C457.0 18.0 459.0 30.0 453.0 34.0 L453.0 44.0 C459.0 46.0 465.0 52.0 467.0 60.0 L469.0 60.0 L469.0 66.0 L466.0 66.0 L466.0 96.0 L472.0 98.0 L472.0 106.0 C498.0 110.0 526.0 138.0 530.0 176.0 L536.0 178.0 L536.0 188.0 L540.0 190.0 L540.0 238.0 L548.0 241.0 L548.0 250.0 L570.0 254.0 L570.0 262.0 L564.0 264.0 L564.0 326.0 L572.0 329.0 L572.0 338.0 L572.0 351.0 L646.0 374.0 L646.0 384.0 L750.0 384.0 L750.0 372.0 L867.0 372.0 L873.0 376.0 L873.0 388.0 L863.0 392.0 L863.0 640.0 L879.0 640.0 L879.0 656.0 L897.0 656.0 L897.0 674.0 L3.0 674.0 L3.0 656.0 L21.0 656.0 L21.0 640.0 L37.0 640.0 L37.0 392.0 L27.0 388.0 L27.0 376.0 L33.0 372.0 L150.0 372.0 L150.0 384.0 L254.0 384.0 L254.0 374.0 L328.0 351.0 L328.0 338.0 L328.0 329.0 L336.0 326.0 L336.0 264.0 L330.0 262.0 L330.0 254.0 L352.0 250.0 L352.0 241.0 L360.0 238.0 L360.0 190.0 L364.0 188.0 L364.0 178.0 L370.0 176.0 C374.0 138.0 402.0 110.0 428.0 106.0 L428.0 98.0 L434.0 96.0 L434.0 66.0 L431.0 66.0 L431.0 60.0 L433.0 60.0 C435.0 52.0 441.0 46.0 447.0 44.0 L447.0 34.0 C441.0 30.0 443.0 18.0 450.0 18.0 Z"/></svg></span>
       <span class="brand-text">
         <span class="brand-name">Mohammad Siddique</span>
         <span class="brand-sub">CalDRE #01372236 &middot; Asset Bridge Realty</span>

diff --git a/css/style.css b/css/style.css
@@ -68,8 +68,8 @@ p { margin: 0 0 1em; max-width: 68ch; }
 .site-header .container { display: flex; align-items: center; justify-content: space-between; gap: 24px; min-height: 76px; }
 .brand { display: flex; align-items: center; gap: 12px; text-decoration: none; color: #fff; }
 .brand:hover { color: #fff; }
-.brand-mark { width: 48px; height: 40px; flex: none; color: var(--gold); display: grid; place-items: center; font-size: 0; }
-.brand-mark svg { width: 48px; height: 28px; }
+.brand-mark { width: 40px; height: 40px; flex: none; color: var(--gold); display: grid; place-items: center; font-size: 0; }
+.brand-mark svg { width: 40px; height: 31px; }
 .brand-text span { display: block; }
 .brand-name { font-family: var(--display); font-weight: 800; font-size: 1.5rem; line-height: 1; letter-spacing: .01em; }
 .brand-sub { font-size: .8125rem; color: #c3cfda; margin-top: 4px; line-height: 1.2; white-space: nowrap; }
@@ -111,7 +111,7 @@ p { margin: 0 0 1em; max-width: 68ch; }
 
 @media (min-width: 1200px) {
   .hero .container { padding-top: 28px; }
-  .capitol-stage { width: min(100%, max(980px, calc((100vh - 190px) * 1.739))); margin: 0 auto; }
+  .capitol-stage { width: min(100%, max(740px, calc((100vh - 190px) * 1.304))); margin: 0 auto; }
   .hero-head, .hero-side { position: absolute; top: clamp(4px, 1.6vw, 28px); width: 35%; }
   .hero-head { left: 0; }
   .hero-side { right: 0; }
@@ -120,7 +120,7 @@ p { margin: 0 0 1em; max-width: 68ch; }
 @media (max-width: 1199px) {
   .hero-head { margin-bottom: 20px; }
   .hero-side { margin: 22px 0 6px; }
-  .capitol-stage { max-width: 900px; }
+  .capitol-stage { max-width: 680px; margin: 0 auto; }
   .capitol .cap-outline { stroke-width: 5; }
   .capitol .cap-lines { display: none; }
 }
